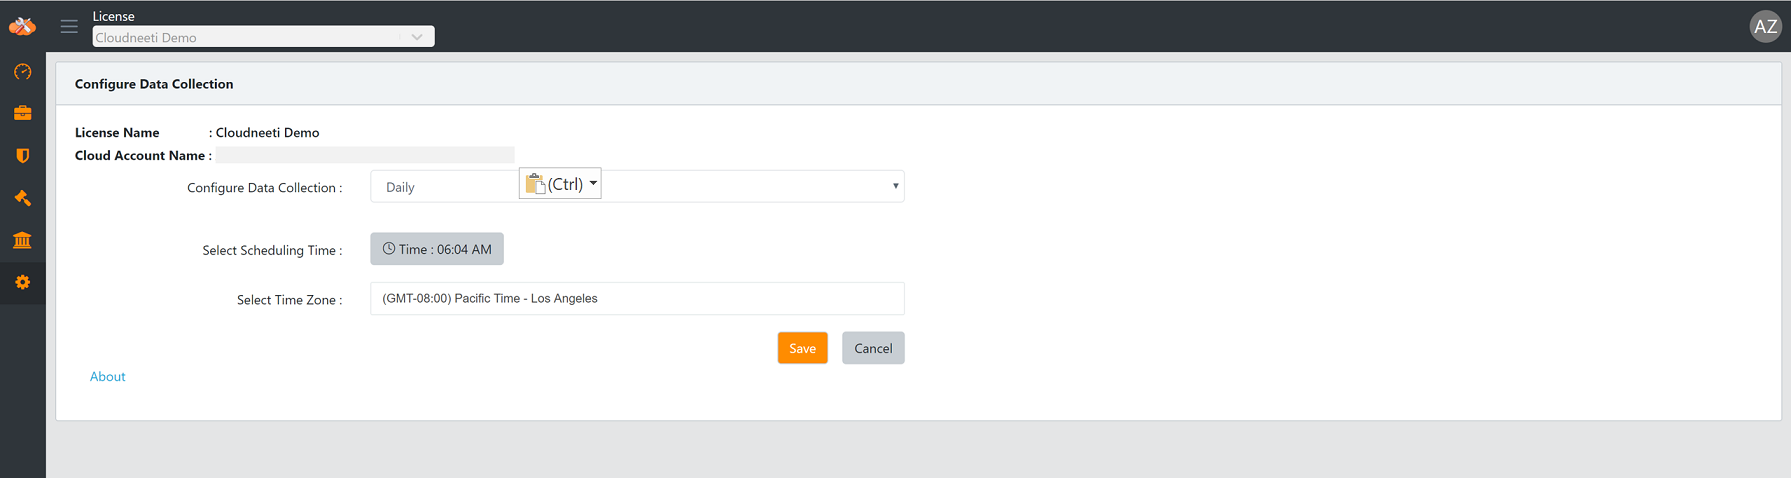
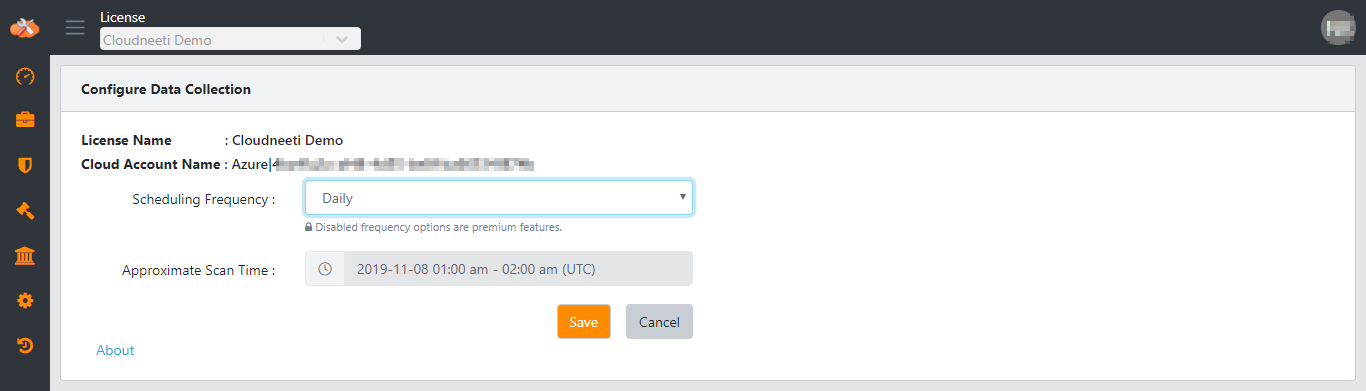
Task 12624 : Weekly scan

Changed region(s): [[0.0, 0.0, 1.0, 1.0], [0.123, 0.6138, 0.1845, 0.6445]]

diff --git a/docs/administratorGuide/manageAccounts.md b/docs/administratorGuide/manageAccounts.md
@@ -51,9 +51,15 @@ completion and about major configuration changes at a License or Account level.
 
 ### Configure Data Collection
 
-Configure Data Collection allows users to set the frequency of data collection
-and other configurations.
-	![Configure Data Collection](.././images/administratorGuide/Configure_Data_Collection.png#thumbnail)
+Configure Data Collection allows users to set the frequency of data collection to daily or weekly for chosen day.
+
+#### Cloud Account Data Collection Frequency Daily
+
+![Configure Data Collection](.././images/administratorGuide/Configure_Data_Collection.png#thumbnail)
+
+#### Cloud Account Data Collection Frequency Weekly
+
+![Configure Data Collection](.././images/administratorGuide/Configure_Data_Collection_Weekly.png#thumbnail)
 
 ### Update Cloud Account
 
